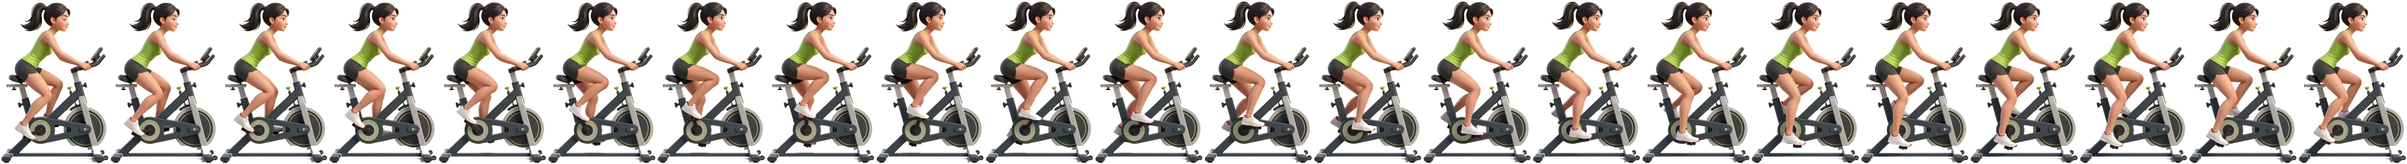
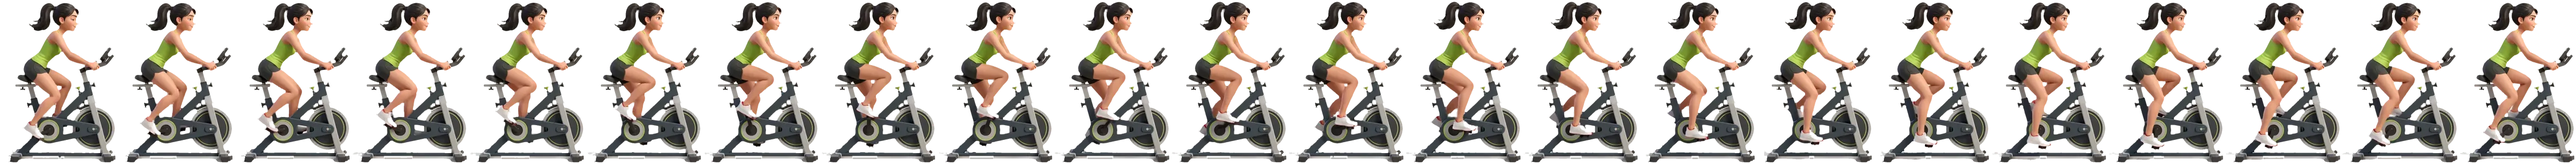
App de teste: sem bordinha clara no recorte das animações; elíptico, bike e escada sem falhas no tênis e no equipamento (27 nov · 190)
Claude-Session: https://claude.ai/code/session_01HfZwp46Dr7mBJZgYWx7x8R

diff --git a/site/app-teste/index.html b/site/app-teste/index.html
@@ -1976,7 +1976,7 @@ const vibrate = p => { try { if(navigator.userActivation && !navigator.userActiv
 
 /* ---------- estado ---------- */
 const KEY = 'simpteste-aluno-pro-v2';
-const APPV = '27 nov · 189'; // muda a cada zip: confira no perfil se o site está com a versão nova
+const APPV = '27 nov · 190'; // muda a cada zip: confira no perfil se o site está com a versão nova
 function fresh(example){
   return { v:2, example:!!example, nome:'', ed:'hipertrofia', waterGoal:3000, cardioGoal:120, water:{}, wlog:{}, remind:{on:true,every:90},
     history:[], cardio:[], logs:{}, warm:{}, last:{}, loadHist:{}, pr:{}, checkin:{}, session:null };
@@ -5326,9 +5326,9 @@ B3_S.rope = { F:{w:161,h:300,D:24,g:297,alt:168,pulo:1,arq:'corda-f',bot:[283,28
 /* escada: a máquina vem na folha junto com a pessoa; nada anda na cena e a sombra fica parada embaixo da máquina */
 B3_S.stair = { F:{w:206,h:300,D:32,g:297,alt:196,fixo:1,arq:'escada-f'}, M:{w:207,h:300,D:36,g:297,alt:196,fixo:1,arq:'escada-m'} };
 /* bike: a bicicleta vem na folha junto com a pessoa, como na escada */
-B3_S.bike = { F:{w:200,h:300,D:22,g:297,alt:186,fixo:1,arq:'bike-f'}, M:{w:201,h:300,D:22,g:297,alt:186,fixo:1,arq:'bike-m'} };
+B3_S.bike = { F:{w:214,h:300,D:22,g:297,alt:186,fixo:1,arq:'bike-f'}, M:{w:204,h:300,D:22,g:297,alt:186,fixo:1,arq:'bike-m'} };
 /* elíptico: a máquina vem na folha junto com a pessoa (no vídeo da mulher a câmera deslizava de lado; o deslize foi desfeito quadro a quadro antes do recorte) */
-B3_S.ell = { F:{w:279,h:300,D:30,g:297,alt:176,fixo:1,arq:'eliptico-f'}, M:{w:278,h:300,D:36,g:297,alt:176,fixo:1,arq:'eliptico-m'} };
+B3_S.ell = { F:{w:298,h:300,D:30,g:297,alt:176,fixo:1,arq:'eliptico-f'}, M:{w:281,h:300,D:36,g:297,alt:176,fixo:1,arq:'eliptico-m'} };
 B3_S.tread = { F:Object.assign({}, B3_S.road.F, {est:1, alt:150}), M:Object.assign({}, B3_S.road.M, {est:1, alt:156}) };
 const B3 = { sx:'', el:null, M:null, s:1, k:1, ph:0, cx:179, raf:0, last:0, ro:null, p:null };
 const b3Html = (k,rot,kind) => `<div class="b3 b3-${kind}${kind==='road' ? '' : ' b3-gym'}" data-kind="${kind}" data-int="${k}" role="img" aria-label="${esc(rot)}"><div class="b3i"><i class="ceu"></i><i class="sol"></i><i class="jan"></i><svg class="longe" viewBox="0 0 358 74" preserveAspectRatio="none" aria-hidden="true"><path fill="var(--b3-longe)" d="M0 74V40h22V22h26v18h14V8h30v32h18V28h24v12h12V16h34v24h16V34h22v6h14V4h28v36h20V24h26v16h20V36h0V74z"/></svg><div class="meio"></div><i class="calc"></i><i class="rua"></i><i class="grao"></i><i class="faixa"></i><i class="sme"></i><i class="est"></i><i class="lona"></i><i class="sm"></i><i class="bn"></i></div>${B3_TROCA ? `<button type="button" class="b3-sx" data-a="b3-sx">${ic('swap')}Ver ${b3Sexo()==='M' ? 'a mulher' : 'o homem'}</button>` : ''}</div>`;

diff --git a/site/treino/index.html b/site/treino/index.html
@@ -1979,7 +1979,7 @@ const vibrate = p => { try { if(navigator.userActivation && !navigator.userActiv
 
 /* ---------- estado ---------- */
 const KEY = 'simplificando-pro-v2';
-const APPV = '27 nov · 189'; // muda a cada zip: confira no perfil se o site está com a versão nova
+const APPV = '27 nov · 190'; // muda a cada zip: confira no perfil se o site está com a versão nova
 function fresh(example){
   return { v:2, example:!!example, nome:'', ed:'hipertrofia', waterGoal:3000, cardioGoal:120, water:{}, wlog:{}, remind:{on:true,every:90},
     history:[], cardio:[], logs:{}, warm:{}, last:{}, loadHist:{}, pr:{}, checkin:{}, session:null };
@@ -5328,9 +5328,9 @@ B3_S.rope = { F:{w:161,h:300,D:24,g:297,alt:168,pulo:1,arq:'corda-f',bot:[283,28
 /* escada: a máquina vem na folha junto com a pessoa; nada anda na cena e a sombra fica parada embaixo da máquina */
 B3_S.stair = { F:{w:206,h:300,D:32,g:297,alt:196,fixo:1,arq:'escada-f'}, M:{w:207,h:300,D:36,g:297,alt:196,fixo:1,arq:'escada-m'} };
 /* bike: a bicicleta vem na folha junto com a pessoa, como na escada */
-B3_S.bike = { F:{w:200,h:300,D:22,g:297,alt:186,fixo:1,arq:'bike-f'}, M:{w:201,h:300,D:22,g:297,alt:186,fixo:1,arq:'bike-m'} };
+B3_S.bike = { F:{w:214,h:300,D:22,g:297,alt:186,fixo:1,arq:'bike-f'}, M:{w:204,h:300,D:22,g:297,alt:186,fixo:1,arq:'bike-m'} };
 /* elíptico: a máquina vem na folha junto com a pessoa (no vídeo da mulher a câmera deslizava de lado; o deslize foi desfeito quadro a quadro antes do recorte) */
-B3_S.ell = { F:{w:279,h:300,D:30,g:297,alt:176,fixo:1,arq:'eliptico-f'}, M:{w:278,h:300,D:36,g:297,alt:176,fixo:1,arq:'eliptico-m'} };
+B3_S.ell = { F:{w:298,h:300,D:30,g:297,alt:176,fixo:1,arq:'eliptico-f'}, M:{w:281,h:300,D:36,g:297,alt:176,fixo:1,arq:'eliptico-m'} };
 B3_S.tread = { F:Object.assign({}, B3_S.road.F, {est:1, alt:150}), M:Object.assign({}, B3_S.road.M, {est:1, alt:156}) };
 const B3 = { sx:'', el:null, M:null, s:1, k:1, ph:0, cx:179, raf:0, last:0, ro:null, p:null };
 const b3Html = (k,rot,kind) => `<div class="b3 b3-${kind}${kind==='road' ? '' : ' b3-gym'}" data-kind="${kind}" data-int="${k}" role="img" aria-label="${esc(rot)}"><div class="b3i"><i class="ceu"></i><i class="sol"></i><i class="jan"></i><svg class="longe" viewBox="0 0 358 74" preserveAspectRatio="none" aria-hidden="true"><path fill="var(--b3-longe)" d="M0 74V40h22V22h26v18h14V8h30v32h18V28h24v12h12V16h34v24h16V34h22v6h14V4h28v36h20V24h26v16h20V36h0V74z"/></svg><div class="meio"></div><i class="calc"></i><i class="rua"></i><i class="grao"></i><i class="faixa"></i><i class="sme"></i><i class="est"></i><i class="lona"></i><i class="sm"></i><i class="bn"></i></div>${B3_TROCA ? `<button type="button" class="b3-sx" data-a="b3-sx">${ic('swap')}Ver ${b3Sexo()==='M' ? 'a mulher' : 'o homem'}</button>` : ''}</div>`;

diff --git a/src/app/12-cardio-boneco.js b/src/app/12-cardio-boneco.js
@@ -282,9 +282,9 @@ B3_S.rope = { F:{w:161,h:300,D:24,g:297,alt:168,pulo:1,arq:'corda-f',bot:[283,28
 /* escada: a máquina vem na folha junto com a pessoa; nada anda na cena e a sombra fica parada embaixo da máquina */
 B3_S.stair = { F:{w:206,h:300,D:32,g:297,alt:196,fixo:1,arq:'escada-f'}, M:{w:207,h:300,D:36,g:297,alt:196,fixo:1,arq:'escada-m'} };
 /* bike: a bicicleta vem na folha junto com a pessoa, como na escada */
-B3_S.bike = { F:{w:200,h:300,D:22,g:297,alt:186,fixo:1,arq:'bike-f'}, M:{w:201,h:300,D:22,g:297,alt:186,fixo:1,arq:'bike-m'} };
+B3_S.bike = { F:{w:214,h:300,D:22,g:297,alt:186,fixo:1,arq:'bike-f'}, M:{w:204,h:300,D:22,g:297,alt:186,fixo:1,arq:'bike-m'} };
 /* elíptico: a máquina vem na folha junto com a pessoa (no vídeo da mulher a câmera deslizava de lado; o deslize foi desfeito quadro a quadro antes do recorte) */
-B3_S.ell = { F:{w:279,h:300,D:30,g:297,alt:176,fixo:1,arq:'eliptico-f'}, M:{w:278,h:300,D:36,g:297,alt:176,fixo:1,arq:'eliptico-m'} };
+B3_S.ell = { F:{w:298,h:300,D:30,g:297,alt:176,fixo:1,arq:'eliptico-f'}, M:{w:281,h:300,D:36,g:297,alt:176,fixo:1,arq:'eliptico-m'} };
 B3_S.tread = { F:Object.assign({}, B3_S.road.F, {est:1, alt:150}), M:Object.assign({}, B3_S.road.M, {est:1, alt:156}) };
 const B3 = { sx:'', el:null, M:null, s:1, k:1, ph:0, cx:179, raf:0, last:0, ro:null, p:null };
 const b3Html = (k,rot,kind) => `<div class="b3 b3-${kind}${kind==='road' ? '' : ' b3-gym'}" data-kind="${kind}" data-int="${k}" role="img" aria-label="${esc(rot)}"><div class="b3i"><i class="ceu"></i><i class="sol"></i><i class="jan"></i><svg class="longe" viewBox="0 0 358 74" preserveAspectRatio="none" aria-hidden="true"><path fill="var(--b3-longe)" d="M0 74V40h22V22h26v18h14V8h30v32h18V28h24v12h12V16h34v24h16V34h22v6h14V4h28v36h20V24h26v16h20V36h0V74z"/></svg><div class="meio"></div><i class="calc"></i><i class="rua"></i><i class="grao"></i><i class="faixa"></i><i class="sme"></i><i class="est"></i><i class="lona"></i><i class="sm"></i><i class="bn"></i></div>${B3_TROCA ? `<button type="button" class="b3-sx" data-a="b3-sx">${ic('swap')}Ver ${b3Sexo()==='M' ? 'a mulher' : 'o homem'}</button>` : ''}</div>`;

diff --git a/site/treino/sw.js b/site/treino/sw.js
@@ -2,7 +2,7 @@
    - A página: tenta a internet primeiro (pega a versão nova); se a internet falhar ou demorar, abre a cópia guardada.
    - Arquivos fixos (Firebase, ícones, fontes): usa a cópia guardada e atualiza por trás.
    - Banco de dados, login e e-mails não passam por aqui: o próprio Firebase cuida de reenviar quando o sinal volta. */
-const VERSAO = '27 nov · 189'; // muda a cada versão (o build grava): assim o celular sempre percebe que tem sw.js novo
+const VERSAO = '27 nov · 190'; // muda a cada versão (o build grava): assim o celular sempre percebe que tem sw.js novo
 const CACHE = 'simp-treino-v4';
 let ATUALIZANDO = false; // true quando já tinha uma versão instalada (atualização, não primeira vez)
 const CORE = ['./', './manifest.webmanifest', './icon-192.png', './icon-512.png', './icon-180.png', './firebase-config.js',

diff --git a/src/app/01-base.js b/src/app/01-base.js
@@ -77,7 +77,7 @@ const vibrate = p => { try { if(navigator.userActivation && !navigator.userActiv
 
 /* ---------- estado ---------- */
 const KEY = 'simplificando-pro-v2';
-const APPV = '27 nov · 189'; // muda a cada zip: confira no perfil se o site está com a versão nova
+const APPV = '27 nov · 190'; // muda a cada zip: confira no perfil se o site está com a versão nova
 function fresh(example){
   return { v:2, example:!!example, nome:'', ed:'hipertrofia', waterGoal:3000, cardioGoal:120, water:{}, wlog:{}, remind:{on:true,every:90},
     history:[], cardio:[], logs:{}, warm:{}, last:{}, loadHist:{}, pr:{}, checkin:{}, session:null };

diff --git a/produto/painel-personal-teste.html b/produto/painel-personal-teste.html
@@ -3943,7 +3943,7 @@ function ctCard(a){
 /* ---------- Perfis: todas as contas do app, com e sem personal ---------- */
 const DONO_NOME = 'Eduardo Matias Marques';
 /* ---------- atualizar o site com um toque (site/atualizar.php baixa a versão nova do GitHub) ---------- */
-const PAINELV = '27 nov · 189'; // Versão do painel: 27 nov · 189
+const PAINELV = '27 nov · 190'; // Versão do painel: 27 nov · 190
 const ATU = { st:'', nova:'', msg:'' };
 function atuCheck(){
   if(ATU.st) return; ATU.st = 'vendo';

diff --git a/site/hub/index.html b/site/hub/index.html
@@ -3834,7 +3834,7 @@ function ctCard(a){
 /* ---------- Perfis: todas as contas do app, com e sem personal ---------- */
 const DONO_NOME = 'Eduardo Matias Marques';
 /* ---------- atualizar o site com um toque (site/atualizar.php baixa a versão nova do GitHub) ---------- */
-const PAINELV = '27 nov · 189'; // Versão do painel: 27 nov · 189
+const PAINELV = '27 nov · 190'; // Versão do painel: 27 nov · 190
 const ATU = { st:'', nova:'', msg:'' };
 function atuCheck(){
   if(ATU.st) return; ATU.st = 'vendo';

diff --git a/site/personal/index.html b/site/personal/index.html
@@ -3833,7 +3833,7 @@ function ctCard(a){
 /* ---------- Perfis: todas as contas do app, com e sem personal ---------- */
 const DONO_NOME = 'Eduardo Matias Marques';
 /* ---------- atualizar o site com um toque (site/atualizar.php baixa a versão nova do GitHub) ---------- */
-const PAINELV = '27 nov · 189'; // Versão do painel: 27 nov · 189
+const PAINELV = '27 nov · 190'; // Versão do painel: 27 nov · 190
 const ATU = { st:'', nova:'', msg:'' };
 function atuCheck(){
   if(ATU.st) return; ATU.st = 'vendo';

diff --git a/site/personal/teste/index.html b/site/personal/teste/index.html
@@ -3947,7 +3947,7 @@ function ctCard(a){
 /* ---------- Perfis: todas as contas do app, com e sem personal ---------- */
 const DONO_NOME = 'Eduardo Matias Marques';
 /* ---------- atualizar o site com um toque (site/atualizar.php baixa a versão nova do GitHub) ---------- */
-const PAINELV = '27 nov · 189'; // Versão do painel: 27 nov · 189
+const PAINELV = '27 nov · 190'; // Versão do painel: 27 nov · 190
 const ATU = { st:'', nova:'', msg:'' };
 function atuCheck(){
   if(ATU.st) return; ATU.st = 'vendo';

diff --git a/src/admin.html b/src/admin.html
@@ -3803,7 +3803,7 @@ function ctCard(a){
 /* ---------- Perfis: todas as contas do app, com e sem personal ---------- */
 const DONO_NOME = 'Eduardo Matias Marques';
 /* ---------- atualizar o site com um toque (site/atualizar.php baixa a versão nova do GitHub) ---------- */
-const PAINELV = '27 nov · 189'; // Versão do painel: 27 nov · 189
+const PAINELV = '27 nov · 190'; // Versão do painel: 27 nov · 190
 const ATU = { st:'', nova:'', msg:'' };
 function atuCheck(){
   if(ATU.st) return; ATU.st = 'vendo';
